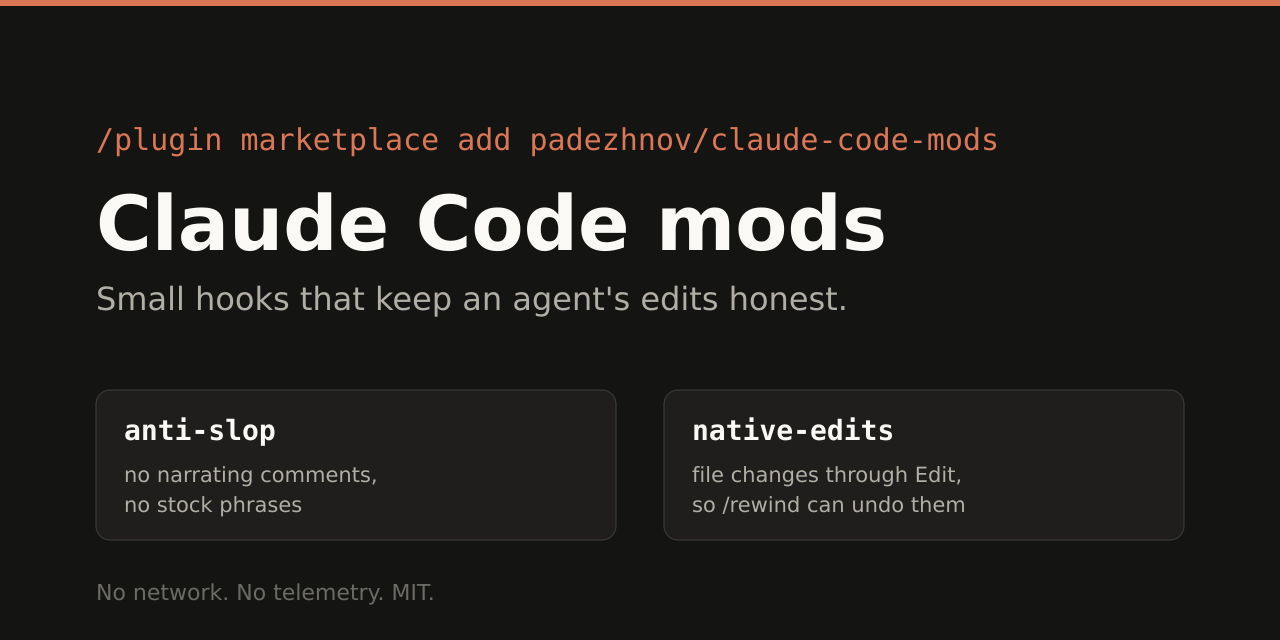
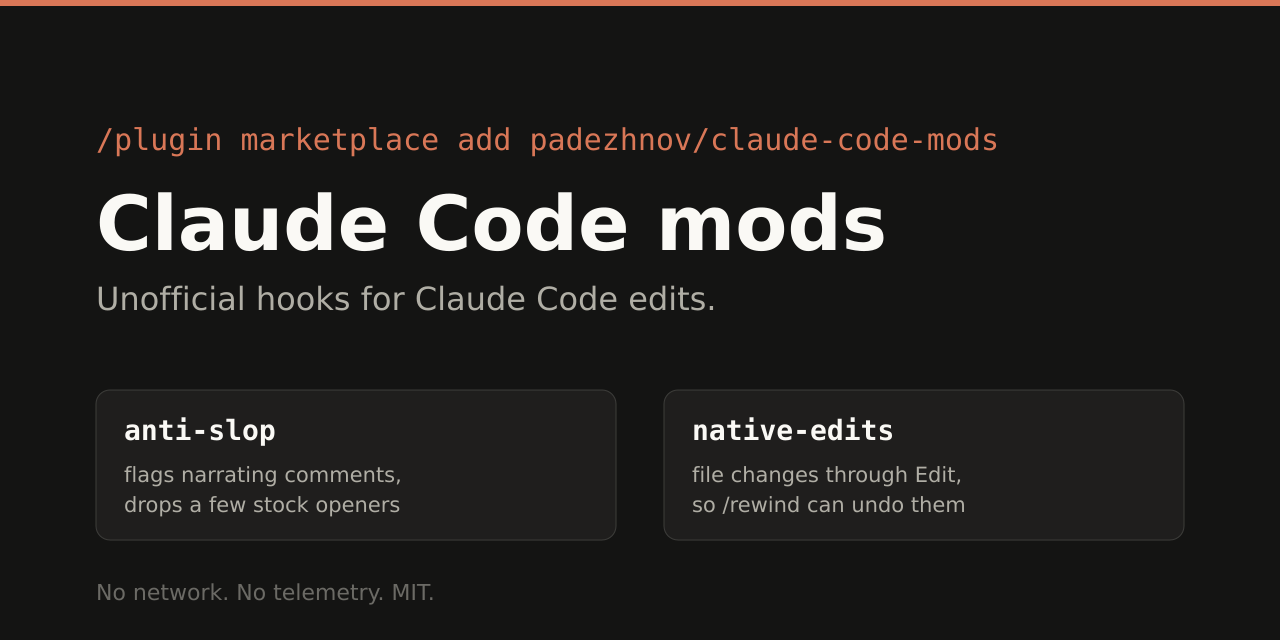
Docs: accurate SECURITY table, Unofficial, newcomer steps (settings, disable, uninstall), corrected numbers and issue links

Changed region(s): [[0.0625, 0.4375, 0.6562, 0.5], [0.0938, 0.7188, 0.3125, 0.8125]]

diff --git a/plugins/anti-slop/tests/slop.test.ts b/plugins/anti-slop/tests/slop.test.ts
@@ -141,7 +141,7 @@ describe('what is judged', () => {
     expect(isScratch('/tmp/cart.js')).toBe(true)
     expect(isScratch('/tmp/claude-0/-root/abc/scratchpad/x.ts')).toBe(true)
     expect(isScratch('/private/var/folders/xy/T/a.py')).toBe(true)
-    expect(isScratch('/root/projects/app/tmp.ts')).toBe(false)
+    expect(isScratch('/home/u/projects/app/tmp.ts')).toBe(false)
     expect(judgeComments('/tmp/cart.js', '', '// Added total calculation as requested\ntotal()')).toBe(null)
   })
 

diff --git a/plugins/native-edits/hooks/policy.ts b/plugins/native-edits/hooks/policy.ts
@@ -224,7 +224,7 @@ export function retryNote(writes: readonly Write[], roots: readonly string[]): s
 
 /**
  * The sentences the auto-mode attachment (`auto_mode`) uses to send file
- * changes through the shell, as Claude Code 2.1.289-2.1.292 words them: the
+ * changes through the shell, as Claude Code 2.1.289-2.1.294 words them: the
  * strict variant and the relaxed one. Tool names are captured, not assumed.
  */
 const STRICT =

diff --git a/README.md b/README.md
@@ -1,10 +1,12 @@
 # Claude Code mods by Evgeny Padezhnov
 
+*Unofficial — not made or endorsed by Anthropic.*
+
 ![Claude Code mods](assets/social-preview.png)
 
 | Mod | What it does |
 |---|---|
-| [**anti-slop**](#anti-slop) | Fewer comments that narrate the edit and fewer stock phrases, in English and Russian: a note to Claude right after an edit whose comments say "added X" or "as requested"; "You're absolutely right" dropped from stored replies. |
+| [**anti-slop**](#anti-slop) | Flags comments that narrate the edit ("added X", "as requested") with a note to Claude right after the edit, and drops a few stock openers like "You're absolutely right" from stored replies. English and Russian. |
 | [**native-edits**](#native-edits) | File changes through Edit and Write, not `sed -i` and heredocs: every change gets a diff, can be rewound and follows the path's rules. |
 
 ```
@@ -13,38 +15,40 @@
 /plugin install native-edits@padezhnov
 ```
 
-Needs Claude Code **2.1.287 or newer** (mods). Each mod is a few plain TypeScript files with no network access — read them before installing.
+**Mods** are Claude Code plugins whose hooks are TypeScript functions running inside Claude Code (since 2.1.287). These need Claude Code **2.1.287 or newer**; native-edits' prompt fix applies from 2.1.289. Neither mod makes network requests. anti-slop is about 500 lines of TypeScript; native-edits about 2,200, most of it a shell parser (`plugins/native-edits/hooks/shell.ts`) — read them before installing.
+
+**Settings:** `/plugin` → pick the mod → configure, or `pluginConfigs.<mod>` in your Claude Code settings. **Turn off or remove:** `/plugin disable anti-slop@padezhnov`, `/plugin uninstall anti-slop@padezhnov` (same for native-edits), or set its mode to `off`.
 
 ---
 
 ## anti-slop
 
-Two long-running complaints about Claude Code: it writes comments that narrate the edit instead of explaining the code, and ignores instructions to stop ([#65961](https://github.com/anthropics/claude-code/issues/65961)); and it keeps opening replies with "You're absolutely right" or saying "load-bearing" ([#53454](https://github.com/anthropics/claude-code/issues/53454)). English and Russian are both understood.
+Two long-running complaints about Claude Code: it writes comments that narrate the edit instead of explaining the code, and ignores instructions to stop ([#65961](https://github.com/anthropics/claude-code/issues/65961)); and it leans on stock phrases, such as opening with "You're absolutely right" or saying "load-bearing" ([#53454](https://github.com/anthropics/claude-code/issues/53454) is about the latter). English and Russian are both understood.
 
-- **Comments.** After an edit succeeds, the comment lines it added are checked for ones that tell the history of the change: "Added retry logic", "I've removed…", "as requested", "used to return null", "until now…", "Добавил…", "Исправлено:", "по просьбе…". Claude gets a short note right then to rephrase those lines to describe the code as it is now, keeping the why. At most one note per file and three per session; the edit is never refused. Quoted text, descriptions of what code does ("Updated by cron", "Token used to call the API", "Добавлено в v2 API"), tool directives, prose files and `/tmp` or scratchpad files are left alone.
-- **Too many comments** is opt-in (`comments: density`): three or more short one-line captions right above code, at 30% or more of the lines the edit added.
-- **Phrases.** By default an opening "Хороший вопрос", "Отличный вопрос", "You're absolutely right" or "You are absolutely right" is dropped from the reply as the conversation stores it, so Claude does not keep echoing itself; a sentence that needs the phrase ("You're absolutely right that the cache is stale") is kept. "Ты прав", "Вы правы" and "load-bearing" are only asked to be avoided, in a short system-prompt section. Code spans, fences and text that looks like JSON are never rewritten, and what already streamed to your screen may still show the original.
+- **Comments.** After an edit succeeds, the comment lines it added are checked for ones that tell the history of the change: "Added retry logic", "I've removed…", "as requested", "used to return null", "until now…", "Добавил…", "Исправлено:", "по просьбе…". Claude gets a short note right then to rephrase those lines to describe the code as it is now, keeping the why. At most one note per file and three per session; the edit is never refused. Only files in common languages are checked (see `syntaxOf` in `plugins/anti-slop/hooks/slop.ts`). Quoted text, descriptions of what code does ("Updated by cron", "Token used to call the API", "Добавлено в v2 API"), tool directives, prose files and `/tmp` or scratchpad files are left alone.
+- **Too many comments** is opt-in (`comments: density`): three or more short one-line captions right above code, at 30% or more of the code lines the edit added.
+- **Phrases.** By default "Хороший вопрос", "Отличный вопрос", "You're absolutely right" or "You are absolutely right" where it starts a sentence is dropped from the reply as the conversation stores it (the copy Claude reads back on later turns), so Claude does not keep echoing itself; a sentence that needs the phrase ("You're absolutely right that the cache is stale") is kept. A short system-prompt section asks Claude to avoid all listed phrases in replies, code, comments and commit messages, and not to open a reply by agreeing with or praising you; "Ты прав", "Вы правы" and "load-bearing" are only covered by that request. Code spans, fences and text that looks like JSON are never rewritten, and what already streamed to your screen may still show the original.
 - Changes made through Bash (`sed -i`, heredocs) are not seen; use it with [native-edits](#native-edits), which sends those to Edit and Write.
 - `/anti-slop` shows the settings and what it caught, for this session and, approximately, for all sessions on this machine. Settings: `comments` (`narration`, `density` or `off`), `minComments`, `commentPercent`, `beforeNow` (also count Russian "раньше…" / "теперь…" history comments; off because many teams write these on purpose), `phrases` (`phrase=>replacement`, `phrase=>` to drop an opener, a bare phrase to only avoid), `rewrite`.
 
-Replayed against our own transcripts (2,816 successful Edit and Write calls): 0.1 would have sent 141 notes; of 30 picked at random, none pointed at comments that only restate the code, 3 at a history sentence inside a longer explanation, and the rest at explanations of why, file headers and section markers. 0.2 sends 3 (4 before the caps), each for an "until now…" or "it used to…" sentence inside a long explanatory comment; no "// Added X" style comment turned up outside `/tmp`. The phrase rewrite changed 15 openers in 29,966 stored text blocks. Treat the comment rule as a light guard, not a cleaner.
+Replayed against my own Claude Code transcripts (one developer, about four weeks; 2,816 successful Edit and Write calls in that extract): 0.1 would have sent 141 notes; of 30 picked at random, none pointed at comments that only restate the code, 3 at a history sentence inside a longer explanation, and the rest at explanations of why, file headers and section markers. 0.2 sends 3 (4 before the caps), each for an "until now…" or "it used to…" sentence inside a long explanatory comment; no "// Added X" style comment turned up outside `/tmp`. The phrase rewrite changed 15 openers in 29,966 stored text blocks. Treat the comment rule as a light guard, not a cleaner.
 
 ---
 
 ## native-edits
 
-In auto mode Claude Code tells the model, in so many words, to "make small, mechanical file changes with sed, heredocs, or short scripts instead of the dedicated Read, Edit, or Write tools". So it does: on our machines about half of all local file changes went through Bash. `/rewind` cannot undo those changes ([#87575](https://github.com/anthropics/claude-code/issues/87575)), they skip the nested `CLAUDE.md` and path rules that Edit and Write load ([#90450](https://github.com/anthropics/claude-code/issues/90450)), and any hook or mod that checks Edit and Write never sees them ([#19649](https://github.com/anthropics/claude-code/issues/19649), [#87971](https://github.com/anthropics/claude-code/issues/87971), [#88041](https://github.com/anthropics/claude-code/issues/88041)). Claude Code does show a diff of what a Bash command changed, but only in auto and bypass mode and only inside a git repository.
+In auto mode (Claude Code deciding permissions itself) and with bypassed permissions, Claude Code tells the model, in so many words, to "make small, mechanical file changes with sed, heredocs, or short scripts instead of the dedicated Read, Edit, or Write tools". So it does: on my machines about half of all local file changes went through Bash. `/rewind` cannot undo those changes ([#87575](https://github.com/anthropics/claude-code/issues/87575)), they skip the nested `CLAUDE.md` and path rules that Edit and Write load ([#90450](https://github.com/anthropics/claude-code/issues/90450)), and any hook or mod that checks Edit and Write never sees them. Related requests to keep Claude on its own file tools: [#19649](https://github.com/anthropics/claude-code/issues/19649), [#87971](https://github.com/anthropics/claude-code/issues/87971), [#88041](https://github.com/anthropics/claude-code/issues/88041). Claude Code does show a diff of what a Bash command changed, but only in auto and bypass mode and only inside a git repository.
 
-- **The cause.** The auto-mode note is rewritten before the model reads it: reading and searching through Bash (`cat`, `sed -n`, `grep`) stays, file changes go to Edit (or Write for a new file). Claude Code adds that note in auto mode and with bypass permissions, depending on the model and a server-side cohort; in the same sessions it drops the "Edit files: Use Edit (NOT sed/awk)" lines from the Bash tool's description, and the mod puts an equivalent line back. Only the wording 2.1.289–2.1.294 uses is replaced; another build's note is left exactly as it is, and the guard below still applies. These builds also read an undocumented environment variable, `CLAUDE_CODE_THRIFTY_SONIC=0`, that turns this shell-first mode off altogether; we have not tested it and it may change in any release.
+- **The cause.** The auto-mode note is rewritten before the model reads it: reading and searching through Bash (`cat`, `sed -n`, `grep`) stays, file changes go to Edit (or Write for a new file). Claude Code adds that note in auto mode and with bypassed permissions, not in every session; in the same sessions it drops the "Edit files: Use Edit (NOT sed/awk)" lines from the Bash tool's description, and the mod puts an equivalent line back. Only the wording 2.1.289–2.1.294 uses is replaced; another build's note is left exactly as it is, and the guard below still applies.
 - **The guard.** A Bash command that writes a file in your project is not run. Claude is told which files and to use Edit or Write instead; you are never asked. It catches `sed -i`, `perl -i`, `ruby -i`, `awk -i inplace` and `yq -i` (every target, also through `find -exec`, `xargs` and loops), `cat > f <<EOF`, `echo`/`printf` redirections, `tee`, `x > f.tmp && mv f.tmp f` when x is text Claude wrote or a filter of f itself, writes inside shell functions, and Python, Node or Deno snippets that rewrite a file or write literal text (`open(p, 'w')`, `writeFileSync`), including a script written to `/tmp` and run in the same command. Shell variables in those snippets are filled in as the shell would (`open('$S/x', 'w')` with `S=/tmp/…` is a scratch file).
-- **When Claude has no Edit or Write tool** (`--disallowedTools Edit Write`, a headless run with Bash only), the write runs: a refusal would leave no way to make the change. A subagent's tools are not visible to the mod, so a subagent is refused once per file and told that the same command runs on a second try.
+- **When Claude has no Edit or Write tool** (`--disallowedTools Edit Write`, a headless run with Bash only), the write runs: a refusal would leave no way to make the change. A subagent's tools are not visible to the mod, so a subagent is refused once per command and told that the same command runs on a second try.
 - **What it leaves alone:** reading and searching; `/tmp`, `$TMPDIR` and the session scratchpad; `/dev/null` and `2>&1`; files outside the project (setting `scope`); anything run on another machine (`ssh`, `scp`, `rsync`, `docker exec`); output of programs (`git diff > x.patch`, `npm test > out.txt`, `curl … > page.html`, `curl … | jq . > f.tmp && mv f.tmp f`, a script dumping computed JSON); content only known at run time (`echo "$(date)" >> f`, an unquoted heredoc with `$VAR`); paths only known at run time (`xargs -I{}`, an unset variable); and `allowPaths` (default `**/*.log,**/node_modules/**,**/dist/**,**/build/**`).
 - A bulk change (`sed -i` over 15 files) is refused like any other: Claude then makes it with Edit. Use `warn` or `allowPaths` if you would rather let those through.
 - `/native-edits` shows how many writes were refused, warned or let through, whether the auto-mode note was rewritten, and any `allowPaths` glob it could not read (an invalid glob is ignored, the rest still apply). Settings: `mode` (`deny`, `warn` runs the command and tells Claude afterwards, `off`), `scope` (`project` or `everywhere`), `allowPaths`, `rewritePrompt`.
 
 Checked in a live session: asked to "change red to blue in file.txt using sed -i", Haiku's `sed -i` was refused, it read the file and made the change with Edit. With Edit and Write disallowed, the same `sed -i` ran. A `python3 - <<EOF` writing to `$T/probe.txt` with `T` set to a scratch directory ran. In auto mode, Opus quoted the rewritten note back instead of the original.
 
-Replayed against all 20,197 Bash commands in our own transcripts (429 sessions and subagents): 2,090 commands would have been refused, writing 3,079 files, against 2,721 Edit and Write calls in the same sessions. Of 60 random refusals checked by hand, 59 were plain edits or new files Claude wrote through the shell and one was borderline (a manifest rewritten with computed hashes). Of 40 random commands that look like writes but were let through, none was a missed edit: they ran on another machine, saved a program's output, or wrote nothing. Writes to a path only known at run time (62, about 2%) are let through by design.
+Replayed against all 20,197 Bash commands in my own transcripts (an earlier extract: 429 sessions and subagents): 2,090 commands would have been refused, writing 3,079 files, against 2,721 Edit and Write calls in the same sessions. Of 60 random refusals checked by hand, 59 were plain edits or new files Claude wrote through the shell and one was borderline (a manifest rewritten with computed hashes). Of 40 random commands that look like writes but were let through, none was a missed edit: they ran on another machine, saved a program's output, or wrote nothing. Writes to a path only known at run time (62 files, about 2% of the 3,079) are let through by design.
 
 ---
 
@@ -55,7 +59,7 @@ What each mod reads and changes, and how to report a problem: [SECURITY.md](SECU
 ## Development
 
 ```
-./scripts/check.sh   # claude plugin validate + tsc + claude plugin test
+./scripts/check.sh   # claude plugin validate + tsc + claude plugin test (may make one short claude -p call to refresh the mods switch)
 ```
 
 MIT licensed.

diff --git a/CHANGELOG.md b/CHANGELOG.md
@@ -1,8 +1,8 @@
 # Changelog
 
-## unattended withdrawn from the first public release — 2026-10-08
+## unattended withdrawn before the first public release — 2026-10-08
 
-- Claude Code now continues after a usage limit on its own ("Continue automatically at usage limit", on by default), and the loop breaker never fired on a month of real sessions. The code is kept on the `unattended-wip` branch until it earns its place.
+- Claude Code now continues after a usage limit on its own ("Continue automatically at usage limit", on by default), and the loop breaker never fired on a month of real sessions, so it is not shipped.
 
 ## anti-slop 0.2.0 — 2026-10-08
 
@@ -10,13 +10,11 @@
 
 ## native-edits 0.1.0 — 2026-10-07
 
+- The auto-mode note wording it rewrites is unchanged through Claude Code 2.1.294 (checked 2026-10-09).
+
 - First release: the auto-mode note's shell-edit sentence rewritten to send file changes to Edit and Write; Bash commands that write project files refused (`deny`) or noted (`warn`); `scope`, `allowPaths`, `/native-edits`.
 
 ## anti-slop 0.1.0 — 2026-10-07
 
 - First release: comment nudges, phrase avoidance and rewriting, `/anti-slop`.
 
-## unattended 0.1.0 — 2026-10-06
-
-- Auto-resume: after a usage-limit error, waits for the reported reset of the five-hour window (optionally the weekly one) and sends the resume prompt; band, status line, `/auto-resume`; typing cancels; at most `maxResumes` in a row; `/auto-resume test [minutes]` dry run.
-- Loop breaker: refuses the Nth identical failing tool call with the same error (default 3rd); warns the model one step earlier; counts restart after any state-changing success or your next prompt; `warn` and `off` modes; `/loop-breaker`.

diff --git a/SECURITY.md b/SECURITY.md
@@ -6,10 +6,10 @@ Mods run inside Claude Code with your permissions and no sandbox, so what they c
 
 | Mod | Reads | Changes | Network |
 |---|---|---|---|
-| anti-slop | your edits (to count comments), Claude's replies | adds a note for Claude after an edit; rewrites listed phrases in stored replies | none |
-| native-edits | Bash commands (to spot file writes) | refuses Bash writes to project files; rewrites one sentence of Claude Code's auto-mode instructions | none |
+| anti-slop | your edits (and, before a Write, the file being replaced) to count comments; Claude's replies | adds a note for Claude after an edit; rewrites listed openers in stored replies; adds a short style section to the system prompt; keeps local counters in its plugin store | none |
+| native-edits | Bash commands (to spot file writes) | refuses Bash writes to project files; rewrites the shell-edit sentences of Claude Code's auto-mode note and adds one line to the Bash tool's description; keeps counters and the last 5 refused file names in its plugin store | none |
 
-None of them send data anywhere, write telemetry, or approve permission prompts. Each is a few small TypeScript files — read `plugins/<name>/hooks/` before installing, and pin a release tag.
+Neither sends data anywhere, writes telemetry, or approves permission prompts. Read `plugins/<name>/hooks/` before installing; each release is a git tag (`anti-slop-v0.2.0`, `native-edits-v0.1.0`) whose code you can read as it was released.
 
 ## Reporting a vulnerability
 

diff --git a/CONTRIBUTING.md b/CONTRIBUTING.md
@@ -3,13 +3,13 @@
 Issues and pull requests are welcome.
 
 - **A false positive or a miss** is the most useful report: use the issue templates and paste the command or edit (redact anything private) plus the mod's `/<mod>` status output.
-- **Code:** each mod lives in `plugins/<name>/`. Pure logic sits in its own file without `$` and is unit-tested directly; `hooks/register.ts(x)` stays thin.
+- **Code:** each mod lives in `plugins/<name>/`. Pure logic (parsers, matching) sits in its own file that does not touch the engine object `$`, and is unit-tested directly; `hooks/register.ts` stays thin.
 - **Checks** (the same ones CI runs):
   ```
   npx -y @anthropic-ai/claude-code@latest plugin validate plugins/<name>
   npx -y @anthropic-ai/claude-code@latest plugin test plugins/<name>
   ```
-  `./scripts/check.sh` runs both plus `tsc` for every plugin.
+  `./scripts/check.sh` runs both plus `tsc` for every plugin. `tsc` needs the API types Claude Code lays beside a mod when it loads it (`<plugin>/.claude-plugin/types/`): load the mod once with `claude --plugin-dir plugins/<name>`, or skip `tsc` — CI does.
 - No network calls, no telemetry, no new dependencies without a good reason.
 - Never put real tokens in tests; build fake ones from parts so secret scanners stay strict.
 
